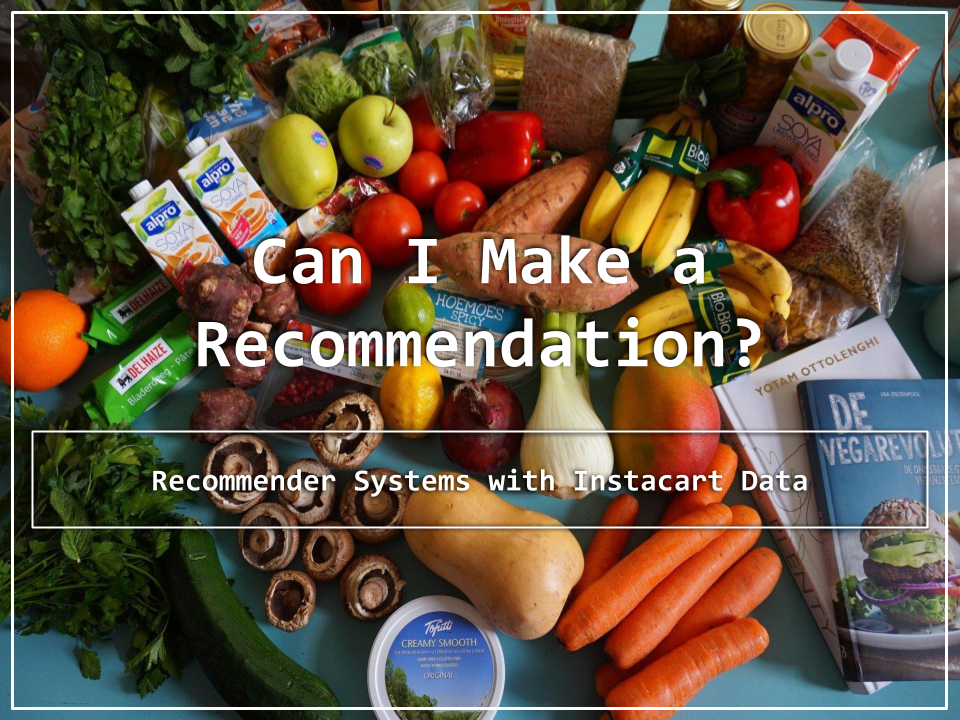
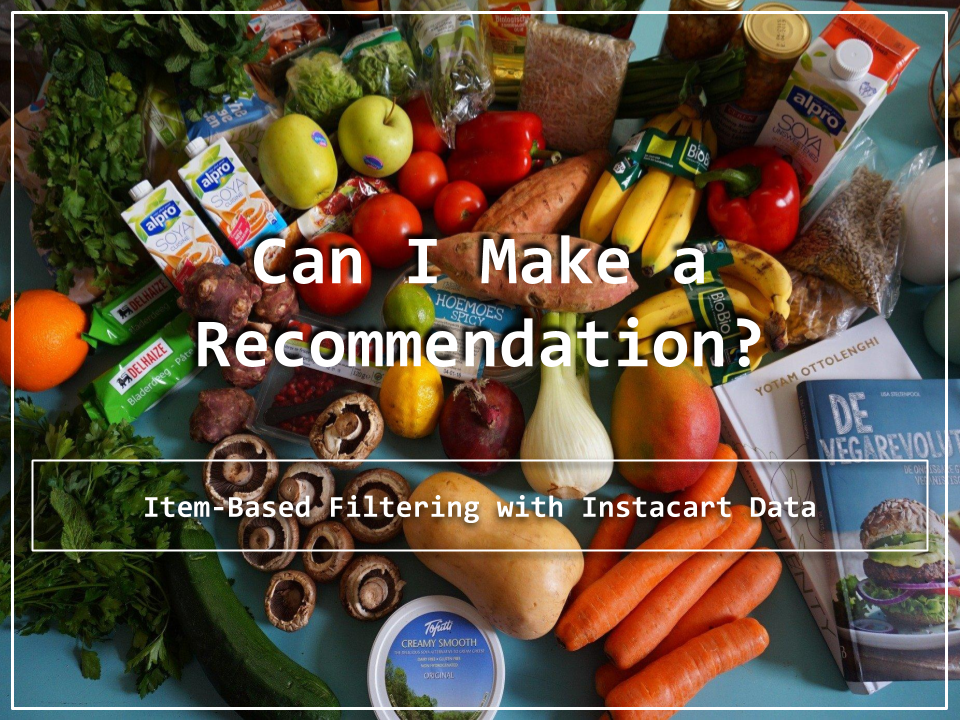
Update to GUI

diff --git a/Instacart Item Based Collaborative Filtering with GUI.py b/Instacart Item Based Collaborative Filtering with GUI.py
@@ -83,10 +83,10 @@ root.title('Make Me A Recommendation')
 ###root.iconbitmap('c:/gui/codemy.ico')
 
 # Creating a Label Widget
-myLabel = Label(root, text="Welcome to my recommender system! \n", width=50, font=('Helvetica', 24))
+myLabel = Label(root, text="Welcome to my recommender system! \n", width=50, font=('Helvetica', 18))
 # Image
 my_img2 = Image.open("Instacart Cover Picture.png")
-my_img2 = my_img2.resize((500,400))
+my_img2 = my_img2.resize((340,256))
 my_img = ImageTk.PhotoImage(my_img2)
 my_label = Label(image=my_img)
 my_label.pack()
@@ -103,12 +103,11 @@ selectcat.pack(anchor=W)
 
 LEVEL = [
 	(AisleNames[0], (data_matrix.iloc[0].nlargest(10))),
-    (AisleNames[1], (data_matrix.iloc[1].nlargest(10))),
-    (AisleNames[2], (data_matrix.iloc[2].nlargest(10))),
-    (AisleNames[3], (data_matrix.iloc[3].nlargest(10))),
-    (AisleNames[4], (data_matrix.iloc[4].nlargest(10))),
-
-
+    (AisleNames[20], (data_matrix.iloc[20].nlargest(10))),
+    (AisleNames[9], (data_matrix.iloc[9].nlargest(10))),
+    (AisleNames[120], (data_matrix.iloc[120].nlargest(10))),
+    (AisleNames[70], (data_matrix.iloc[70].nlargest(10))),
+    (AisleNames[100], (data_matrix.iloc[100].nlargest(10))),
 
 ]
 ###Radio
